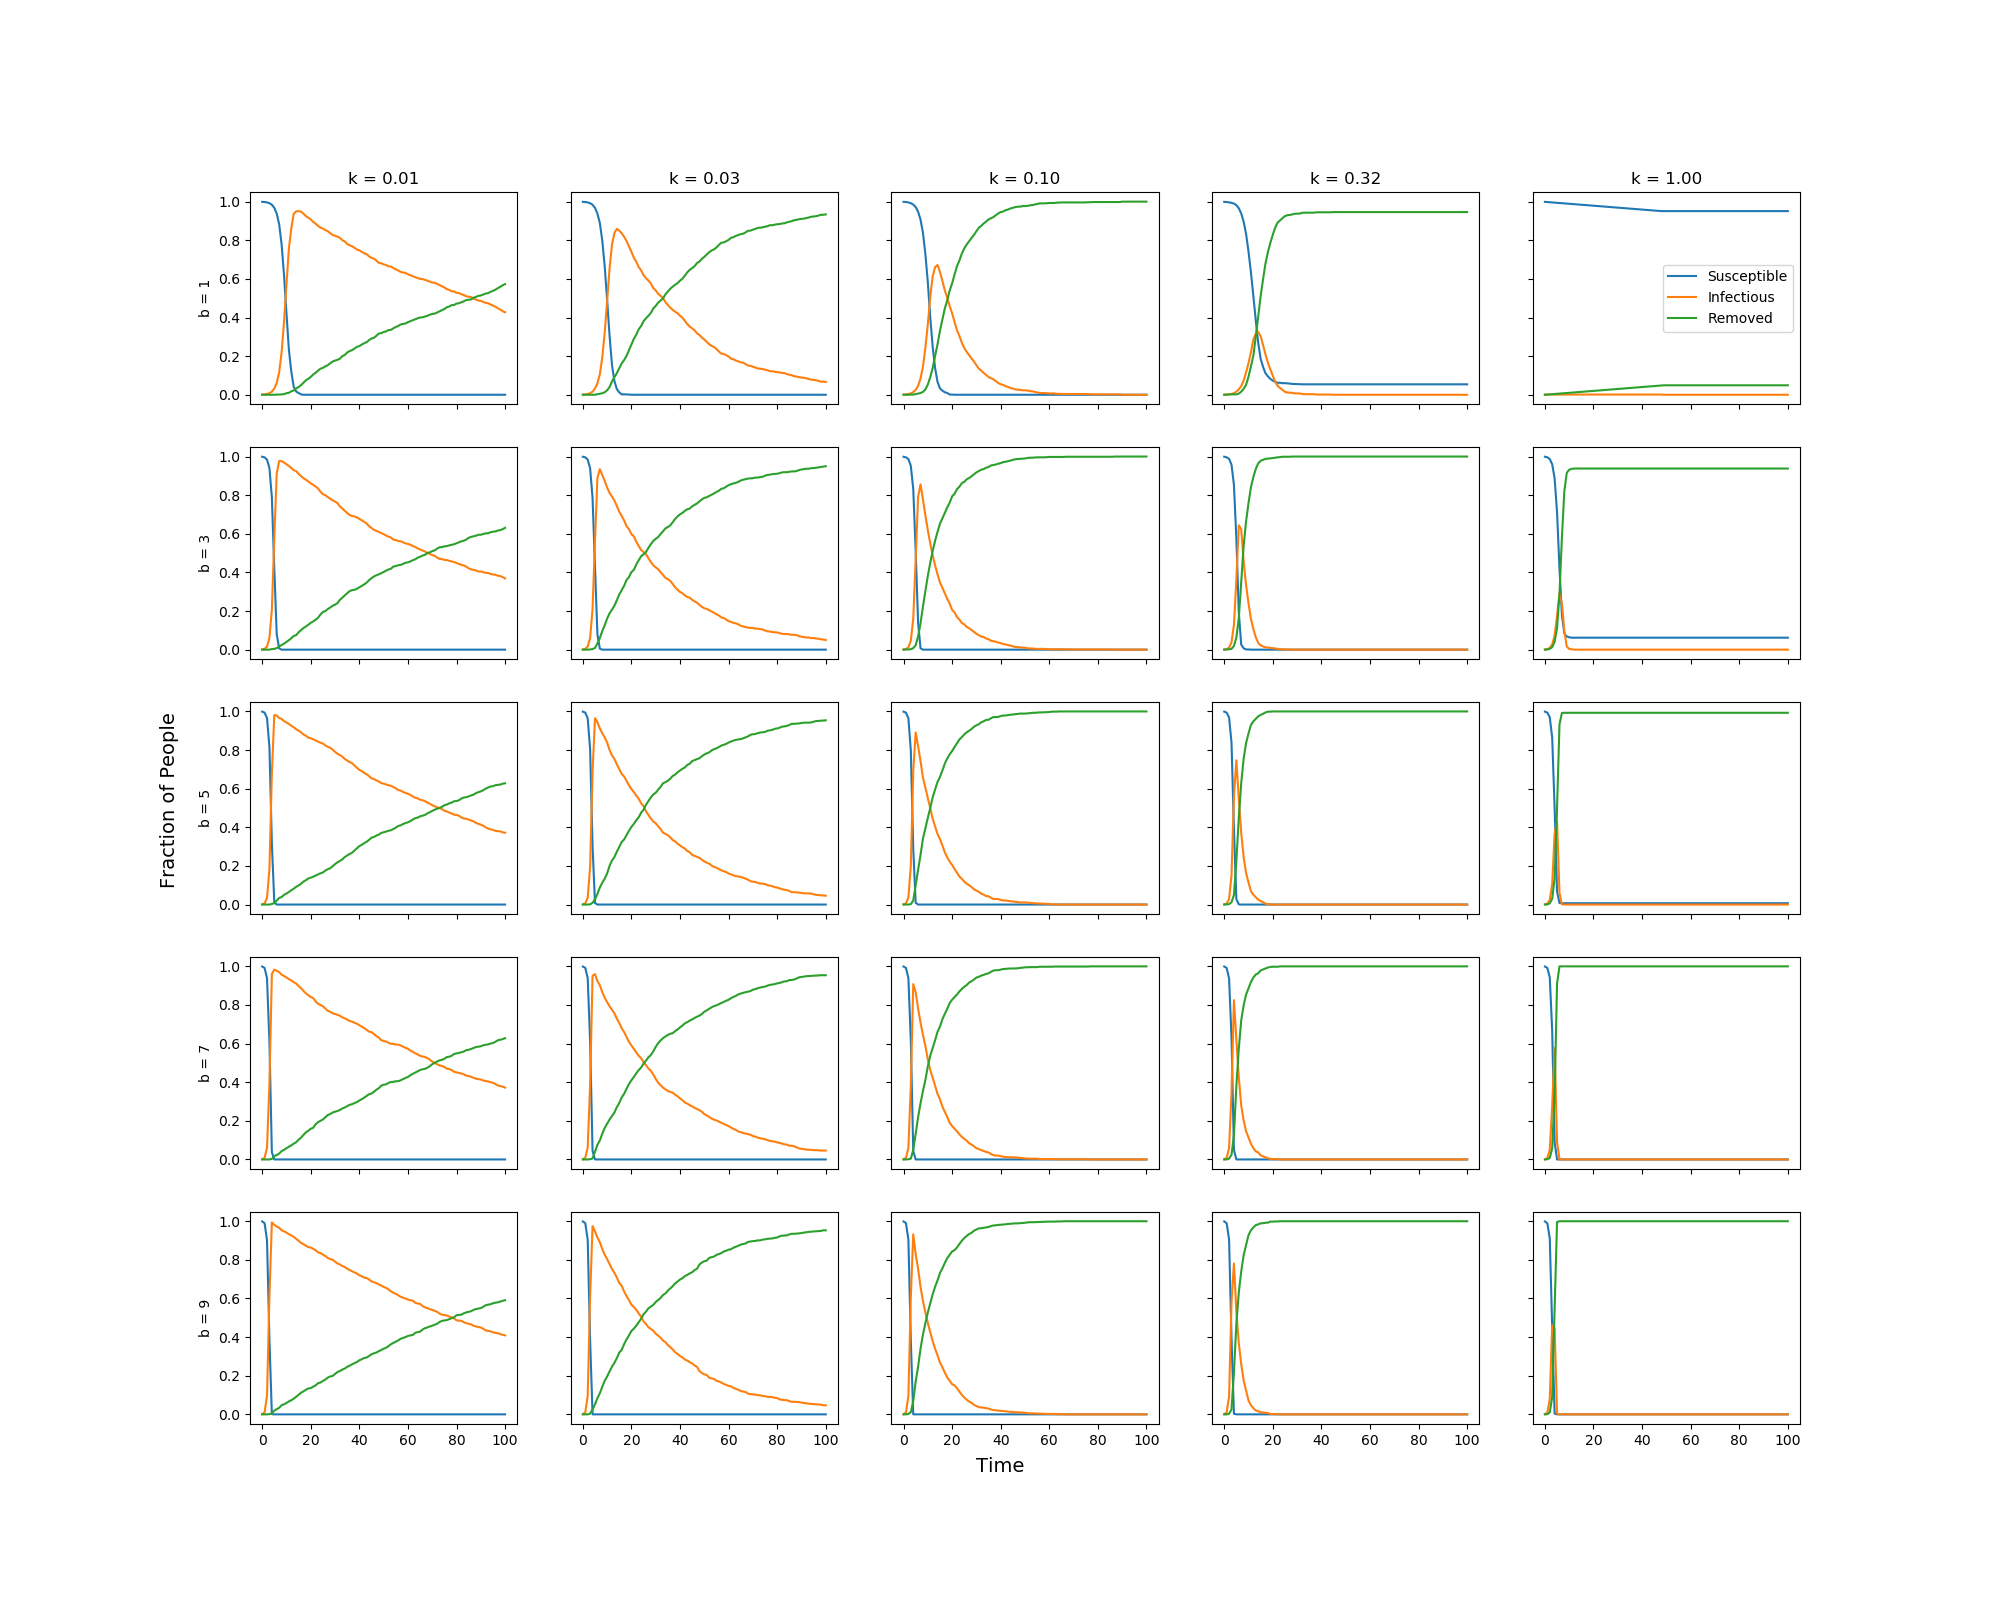
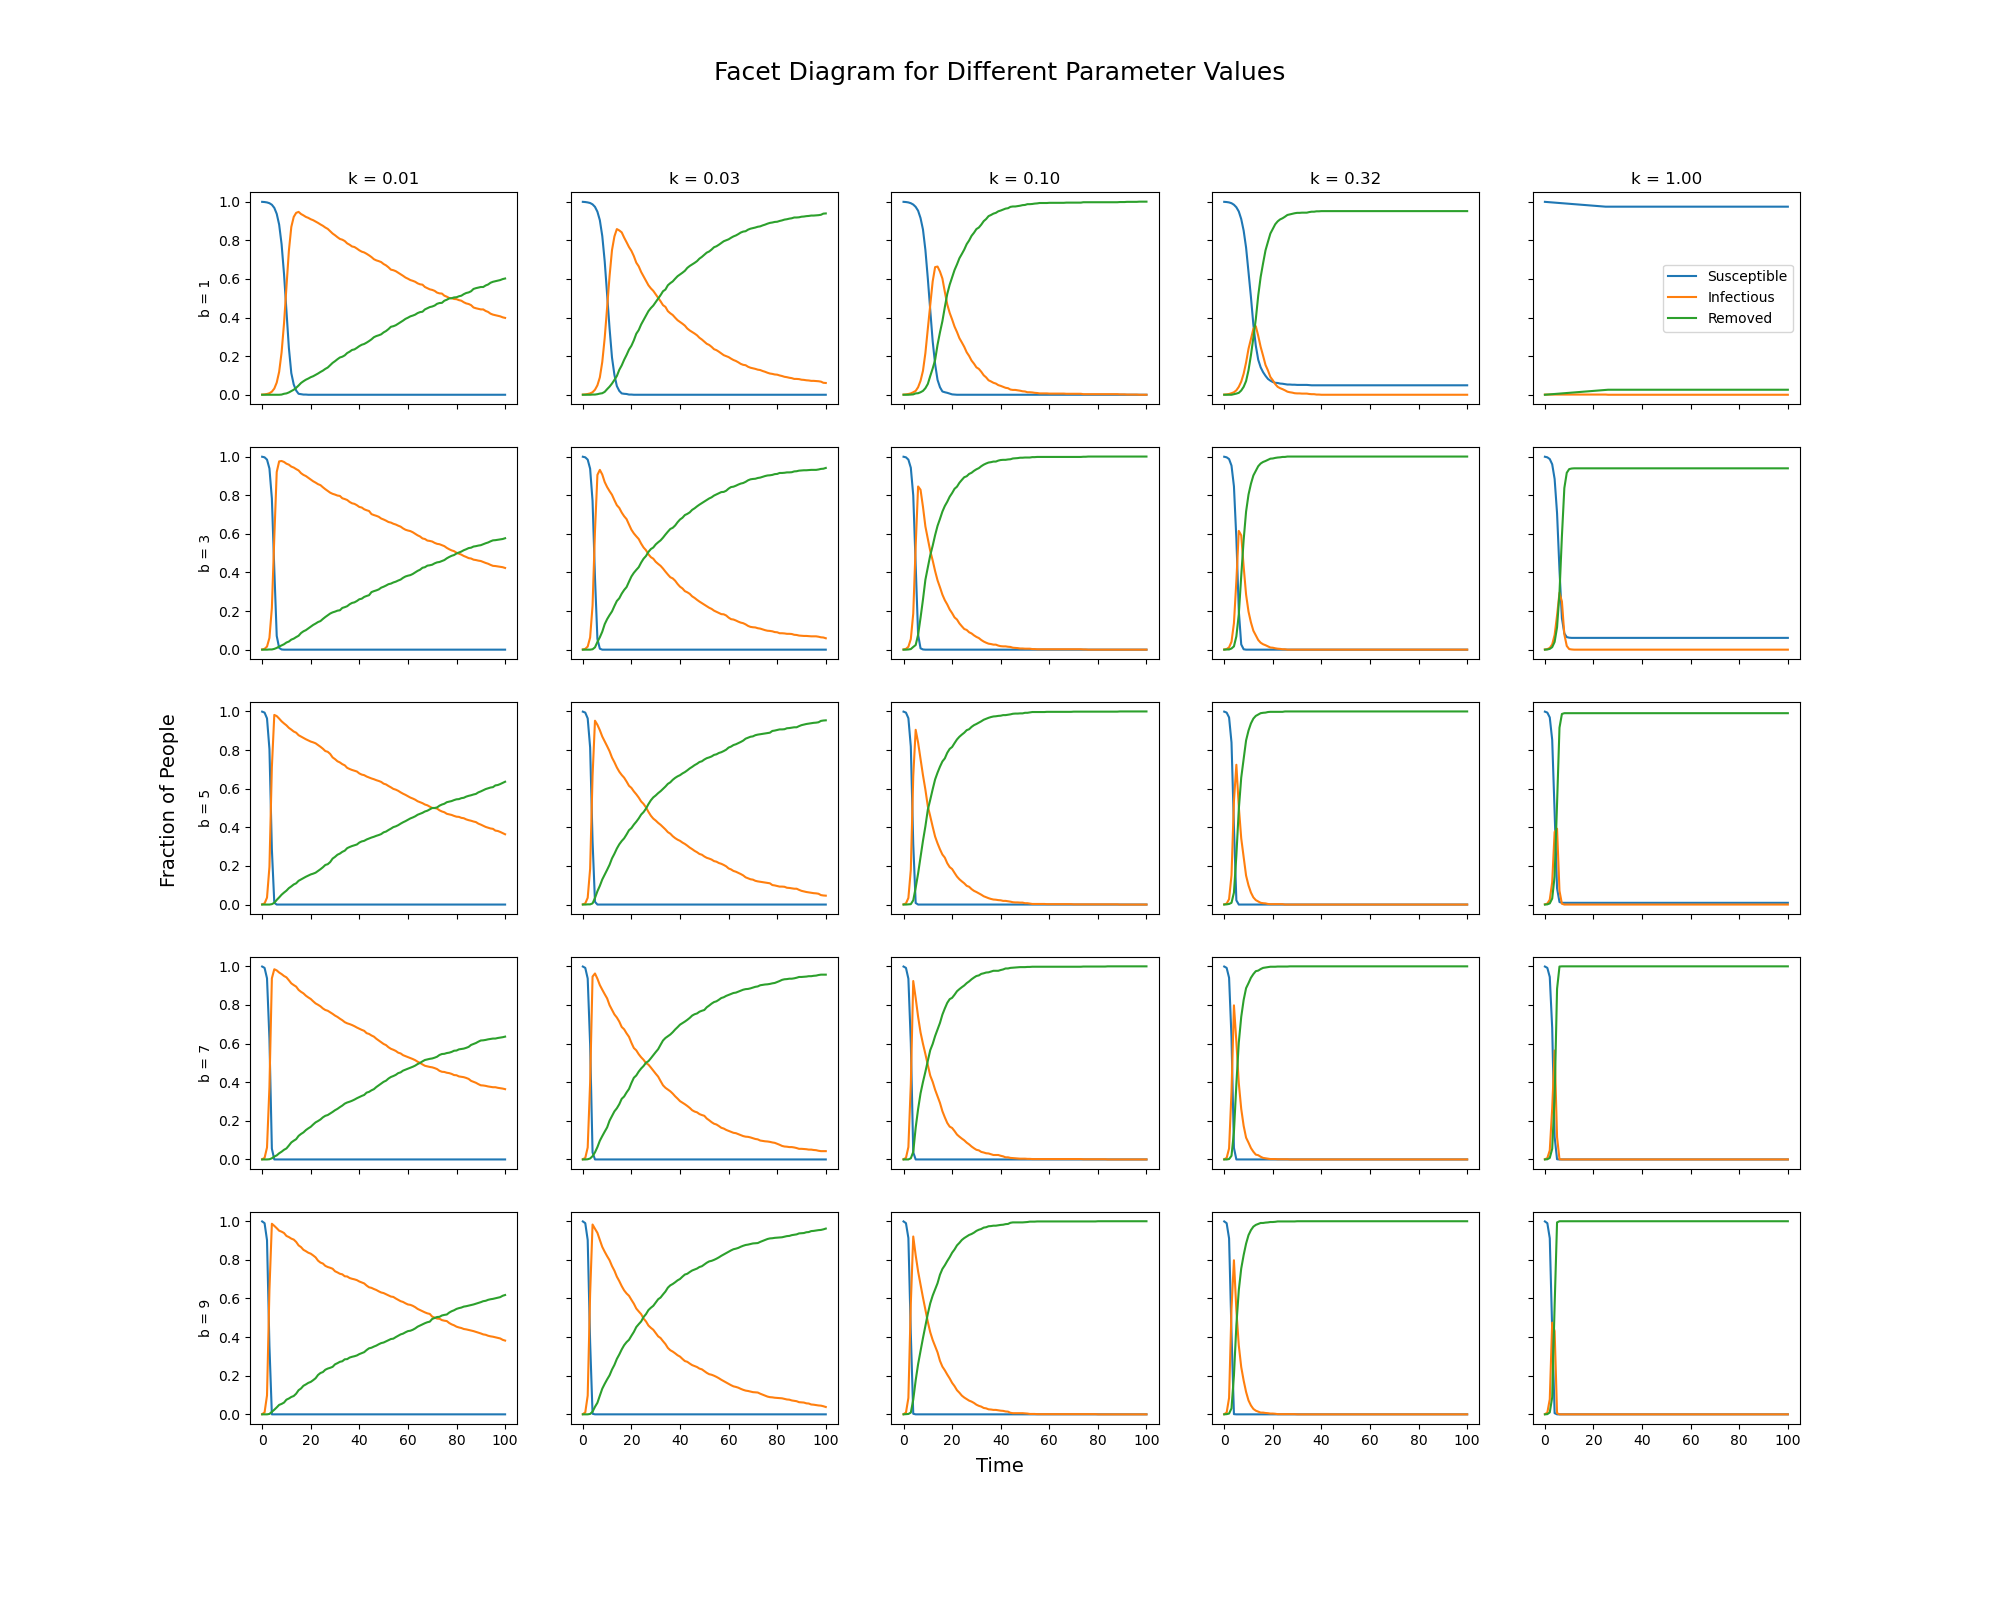
hide plt.savefig(), add title, update dpi to 200

diff --git a/scripts/agent_simulation.py b/scripts/agent_simulation.py
@@ -24,16 +24,30 @@ to 0? Are there parameter regimes where everyone is eventually infected?
 import sys, os
 sys.path.append(os.getcwd())
 from sir import *
-import matplotlib.pyplot as plt
+
 import numpy as np
+import matplotlib.pyplot as plt
 from numpy.random import randint, rand, choice
-from scripts import ode_simulation as ode
 
 def count_sir(pop):
     I = sum(p.is_infected() for p in pop)
     R = sum(p.is_recovered() for p in pop)
     S = len(pop) - I - R
     return np.array([S,I,R])
+
+def plot_sim(result, b, k, ax, accessory=True):
+    """
+    plot the fraction of people in each group over time
+    result = np.array([s, i, r])
+    """
+    ax.plot(result[0], label="Susceptible")
+    ax.plot(result[1], label="Infectious")
+    ax.plot(result[2], label="Removed")
+    if accessory:
+        ax.set_title("b={:.3f}, k={:.3f}".format(b, k))
+        ax.set_xlabel("time")
+        ax.set_ylabel("fraction of people")
+        ax.legend()
 
 def run_sim(b, k, N, T):
     """
@@ -87,18 +101,19 @@ for i, b in enumerate(f_bs):
 f, ax = plt.subplots(len(f_bs), len(f_ks), figsize=(20, 16), sharex=True, sharey=True)
 for i, b in enumerate(f_bs):
      for j, k in enumerate(f_ks):
-        ode.plot_sim(f_results[i,j].T, b, k, ax[i,j], accessory=False)
+        plot_sim(f_results[i,j].T, b, k, ax[i,j], accessory=False)
 
 for i, b in enumerate(f_bs):
     ax[i, 0].set_ylabel("b = {}".format(b))
 for j, k in enumerate(f_ks):
     ax[0, j].set_title("k = {:.2f}".format(k))
 ax[0, -1].legend()
+f.text(0.5, 0.95, 'Facet Diagram for Different Parameter Values', ha='center', fontsize=18)
 f.text(0.5, 0.08, 'Time', ha='center', fontsize=14)
 f.text(0.08, 0.5, 'Fraction of People', va='center', rotation='vertical', fontsize=14)
-plt.savefig("../output/agent_facet_plot.png")
+# plt.savefig("output/agent_facet_plot.png")
 
-#for phase diagram
+# phase diagram
 p_bs = np.arange(1, 11, dtype=np.int64)
 p_ks = np.logspace(-2, 0, 10)
 p_results = np.zeros((len(p_bs), len(p_ks), T+1, 3)) # empty container
@@ -118,6 +133,6 @@ for i, t in enumerate([5, 10, 50]):
     ax[i].set_title("t = {}".format(t))
 f.colorbar(m, ax=[ax[0],ax[1],ax[2]])
 f.text(0.5, 0.95, 'Phase Diagram of Infection Rate at Different Times', ha='center', fontsize=14)
-f.text(0.5, 0, 'k: recover fraction', ha='center', fontsize=12)
+f.text(0.5, 0.01, 'k: recover fraction', ha='center', fontsize=12)
 f.text(0.08, 0.5, 'b: number of interactions', va='center', rotation='vertical', fontsize=12)
-plt.savefig("../output/agent_phase_plot.png")
+# plt.savefig("output/agent_phase_plot.png", dpi=200)

diff --git a/scripts/ode_simulation.py b/scripts/ode_simulation.py
@@ -25,11 +25,9 @@ import sys, os
 sys.path.append(os.getcwd())
 from sir import *
 
-
 import numpy as np
 import matplotlib.pyplot as plt
 
-# some functions
 def plot_sim(result, b, k, ax, accessory=True):
     """
     plot the fraction of people in each group over time
@@ -59,7 +57,7 @@ N = 10000; T = 100; i0 = 0.001
 b = 1; k = 0.1
 f, ax = plt.subplots()
 plot_sim(ode_model(i0, T, b, k), b, k, ax)
-plt.show()
+# plt.show()
 
 # facet plot
 bs = np.arange(1, 11, 2, dtype=np.int64)
@@ -76,9 +74,10 @@ for i, b in enumerate(bs):
 for j, k in enumerate(ks):
     ax[0,j].set_title("k = {:.2f}".format(k))
 ax[0,-1].legend()
+f.text(0.5, 0.95, 'Facet Diagram for Different Parameter Values', ha='center', fontsize=18)
 f.text(0.5, 0.08, 'Time', ha='center', fontsize=14)
 f.text(0.08, 0.5, 'Fraction of People', va='center', rotation='vertical', fontsize=14)
-plt.savefig("../output/ode_facet_plot.png")
+# plt.savefig("output/ode_facet_plot.png")
 
 # phase diagram at time t
 bs = np.arange(1, 11, dtype=np.int64)
@@ -95,6 +94,6 @@ for i, t in enumerate([5, 10, 50]):
     ax[i].set_title(f"t = {t}")
 f.colorbar(m, ax=[ax[0],ax[1],ax[2]])
 f.text(0.5, 0.95, 'Phase Diagram of Infection Rate at Different Times', ha='center', fontsize=14)
-f.text(0.5, 0, 'k: recover fraction', ha='center', fontsize=12)
+f.text(0.5, 0.01, 'k: recover fraction', ha='center', fontsize=12)
 f.text(0.08, 0.5, 'b: number of interactions', va='center', rotation='vertical', fontsize=12)
-plt.savefig("../output/ode_phase_plot.png")
+# plt.savefig("output/ode_phase_plot.png", dpi=200)
